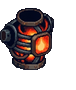
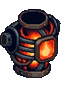
feat(m11): Krall — krall_torsos2 im Panzer-Maßstab (P0-14) und krall_arms_L4 (P0-16) eingebunden, Übergangs-Skalierung entfernt
Claude-Session: https://claude.ai/code/session_016nKYwp8z7nBJLYrrUAGEJb

diff --git a/src/dungeon/anim/rigs/krall.ts b/src/dungeon/anim/rigs/krall.ts
@@ -24,6 +24,11 @@ const KARM_BENT = 12;
 const KARM_STUMP = 15;
 /** Arm-Pose (0 hängend · 1 ausholend · 2 Stoß, Teleskop/Schnappen zählen als Stoß) → beschädigte Variante je Seite und HP-Anteil */
 function damagedArm(v: number, hp: number, right: boolean): number {
+  // P0-16 (`krall_arms_L4`, Variante 18–23): linker Haken verbogen in seitlich · Block · Stampfer · Sog · Halten · Teleskop voll (Stumpf-Varianten folgen mit P0-18)
+  if (!right && hp >= 0.2 && hp < 0.5) {
+    const L4: Record<number, number> = { [KARM.side]: 18, [KARM.block]: 19, [KARM.stomp]: 20, [KARM.sog]: 21, [KARM.hold]: 22, [KARM.telL]: 23 };
+    if (L4[v] !== undefined) return L4[v];
+  }
   const base = v === 0 || v === 1 || v === 2 ? v : v >= KARM.telS && v <= KARM.snap ? 2 : -1;
   if (base < 0) return v;
   if (hp < (right ? 0.35 : 0.2)) return KARM_STUMP + base; // Zange bricht zuerst ab
@@ -116,7 +121,7 @@ function krallSet(e: Enemy, time: number): KrallSet {
   let dmg = -1;
   if (p2) dmg = hpPct < 0.15 ? KT3.p2Crit : hpPct < 0.25 ? KT3.p2Heavy : hpPct < 0.35 ? KT3.p2Light : -1;
   else dmg = hpPct < 0.25 ? KT3.p1Heavy : hpPct < 0.65 ? KT3.p1Mid : hpPct < 0.8 ? KT3.p1Light : -1;
-  if (p2) torso = posture === 'duck' ? KT2.duck : posture === 'upright' ? KT2.upright : posture === 'fwd' ? KT2.fwd : posture === 'stomp' ? KT2.stomp : posture === 'side' ? KT2.side : posture === 'hot' ? KT2.hot : KTORSO.p2; // Rahmen in Ruhe = Skelett-Rumpf aus krall_torsos
+  if (p2) torso = posture === 'duck' ? KT2.duck : posture === 'upright' ? KT2.upright : posture === 'fwd' ? KT2.fwd : posture === 'stomp' ? KT2.stomp : posture === 'side' ? KT2.side : posture === 'hot' ? KT2.hot : KT2.duck; // Rahmen in Ruhe = neutrale Pose aus krall_torsos2 (Panzer-Maßstab)
   else torso = KTORSO[posture === 'stomp' || posture === 'side' ? 'fwd' : posture === 'hot' ? 'upright' : posture];
   if (dmg >= 0) {
     // Beschädigung ersetzt das Haltungsbild — die Haltung zeigt dann Verschiebung/Stauchung
@@ -167,10 +172,8 @@ export const anim: RigAnim = {
     const ks = krallSet(e, time);
     const kf = ks.fx;
     const legIn = isFrameTorso(ks.torso) ? 1 : 0;
-    const t2k = ks.torso >= KT2.duck && ks.torso <= KT2.hot ? 1.1 : 1;
     return {
-      // krall_torsos2 ist 76×90 statt 84×100 gezeichnet (Panzer-Rumpf) → Übergangslösung: ×1,1 um den Kern, bis P0-14 neu geliefert ist
-      torso: { variant: ks.torso, dx: kf.torso.dx, rot: kf.torso.rot, sx: (kf.torso.sx ?? 1) * t2k, dy: (kf.torso.dy ?? 0) - Math.abs(s) * walk * 1.2 + breathe * 0.4, sy: (kf.torso.sy ?? 1) * t2k },
+      torso: { variant: ks.torso, dx: kf.torso.dx, rot: kf.torso.rot, sx: kf.torso.sx, dy: (kf.torso.dy ?? 0) - Math.abs(s) * walk * 1.2 + breathe * 0.4, sy: kf.torso.sy },
       // Phase-2-Rahmen ist schmaler als der Panzer-Rumpf: Hüften nach innen, damit die Beine am Körper sitzen
       legFL: { variant: legPose(ks, walk, s), rot: s * amp * 0.25, dx: legIn * 6.5 },
       legBR: { variant: legPose(ks, walk, -s), rot: -s * amp * 0.2, dx: -legIn * 7 },

diff --git a/handoff/krall.md b/handoff/krall.md
@@ -5,7 +5,7 @@
 - **Krall (eingebunden):** Teile `clawR` (`krall_arms_R`) + `clawL` (`krall_arms_L`), je 6 Posen (0 hängend · 1 ausholen · 2 Stoß · 3 seitlich · 4 Block · 5 Stampfer), Rumpf-Set `torso_1…6` (normal · geduckt · aufgerichtet · gebeugt · Phase-2-Skelettrahmen · beschädigt, Pivot = Kern). `krallSet()` in `bossAnims.ts` wählt nach Zugname/`bossSub`/Phase (Tabelle: `BOSS_ANIMATION_PLAN.md` §3), mit Anlauf, Nachfedern, Gehen, Treffer. Maßstab: `torsoDisplayH` 30 → 36 (neuer Rumpf ist kleiner gezeichnet; Zangen wirken größer). Kinder des Rumpfs hängen mit `attach [0.5,0.5]` + `offset` relativ zum Kern. Links/Rechts der Arme per Alpha-Maske geprüft (nicht vertauscht). Panzer fällt in Phase 2 ab. **Feinschliff gegen „Puppen-Zappeln“:** Schrittphase aus zurückgelegter Strecke (stehend = Beine ruhig), Renderer wippt nur beim Laufen und nutzt `smoothBossBody`, trägere Glättung (`KRALL_TAU` 0,1 s), linker Arm folgt dem rechten mit 0,07 s Verzögerung (`VARIANT_LAG`), Zwischen-Posen der Zangen (`CLAW_BETWEEN`). **Beine/Effekte eingebunden:** 4 Beine nutzen `legR_1…6`/`legL_1…6` (`legPose()`: Schritt vor/zurück/anheben/Standbein/geduckt, Ducken bei Windup), Magnet wechselt `magnet_off`/`magnet_on` (nur beim Sog), Schrott-Wurf-Geschosse zeigen `scrap_a/b/c` (`Projectile.sprite='scrap'`); `spark` liegt als Extra-Bild bereit (noch ungenutzt). Import-Option `holes: true` je Set entfernt eingeschlossenes Weiß (Magnet-Öffnung). Fehlt nur Abnahme im echten Kampf. **Kern-Wächter Beschädigungsstufen (ohne neue Sprites, vorhandene Bilder verdrahtet):** P1 < 80 % Helm rissig · < 65 % Rumpf dampft · P2 < 35 % Arme zerfetzt · < 25 % Rumpf beschädigt · < 15 % Helm zerstört (Test `m11p2`). **Angriffs-Abstimmung:** Beinposen je Zug/Phase in `krallSet().leg`; **Angriffs-FX (Nachtest-Feedback):** `BossZone.fx` (`pull`/`blast`/`drop`/`dash`, `bossFx.ts renderFx`), Stoß-Arme schießen in Stoßrichtung, Platte hängt als Rückenschutz am Rumpf, P2-Hüften nach innen (Tabelle `BOSS_ANIMATION_PLAN.md` §3). **Neue Sprites gewünscht (PRIORITÄT P0, ganz oben):** Arme-Angriffsposen `krall_arms_R2/L2`, `krall_fx2`, Beschädigungsstufen `krall_torsos3` + `krall_arms_R3/L3` (P0-11/12), `krall_torsos2.png` (Phase-2-Rümpfe, wichtigste), `krall_legs_R2/L2.png` → `SPRITE_QUEUE.md` P0-06…P0-12.
 - **Eingebunden:** Beine (`legR/L_1…6`, Pose je Angriff), Magnet an/aus, Schrott-Geschosse, Arm-Angriffsposen (P0-06/07: Teleskop-Stoß, Zuschnappen, Sog, Schrott), Angriffs-Optik `BossZone.fx` (`pull`/`blast`/`drop`/`dash`), Platte als Rückenschutz, Phase-2-Hüften nach innen.
 - **Eingebunden (diese Sitzung, P0-08…12 alle verdrahtet):** `krall.json` um Sets `krall_torsos2` (`torso_7…12`), `krall_torsos3` (`torso_13…18`), `krall_legs_R2/L2` (`legR/L_7…12`), `krall_arms_R3/L3` (`clawR/L_13…18`), `krall_fx2` (`fx_wave/arc/crater/rust`, Ringe `fx_field/fx_dust` mit `holes`) erweitert und importiert. `krall.ts`: **Phase-2-Rahmen je Haltung** (`KT2`: geduckt · aufgerichtet · gebeugt · Stampfer gestaucht · Wurf-Drehung · überhitzt vor dem Hagel; Ruhe = alter Skelett-Rumpf Index 4) · **Rumpf-Beschädigung** (`KT3`: P1 <80/<65/<25 % · P2 <35/<25/<15 % kritisch; ersetzt das Haltungsbild, Haltung dann über `fx`) · **Arme** verbogen (R <65 %, L <50 %) und Stumpf (R <35 %, L <20 %) für hängend/ausholen/Stoß (Teleskop/Schnappen zählen als Stoß) · **Beine** (`KLEG2`): Ausfall, Bremsen, Stampfer-Landung, Magnet-Stemmen, Phase-2-Humpeln (<35 %), Ruhe-Zittern (Phase 2). `bossFx.ts`: `fx_field` (Magnet-Feldringe), `fx_arc` (Blitzbogen), `fx_wave` (Stoß-Luftwelle), `fx_dust` (Druckring), `fx_crater`+`fx_rust` (Schrott-Aufschlag). Test `m11p5_krall` erweitert; Kontaktbogen `rig-sheet.cjs krall` um 7 Schadensfälle ergänzt.
-- **Kleinigkeiten / offen:** Phase-2-Rahmen waren ~10 % kleiner gezeichnet → Übergang: Skalierung ×1,1 (`t2k` in `krall.ts`); echte Lösung **P0-14** (`krall_torsos2` neu im Panzer-Maßstab). Arme in Block/Sog/Hagel/Stampfer/Teleskop haben noch keine beschädigte Variante → **P0-15…18** in `SPRITE_QUEUE.md` (neue Sprites benötigt!). Beschädigte Beine nur als Humpeln.
+- **P0-14 ✅ eingebunden:** `krall_torsos2` im Panzer-Maßstab (84×100) re-importiert, Übergangs-Skalierung `t2k` entfernt. **P0-16 ✅ eingebunden:** `krall_arms_L4` → `clawL_19…24` (verbogener Haken: seitlich · Block · Stampfer · Sog · Halten · Teleskop voll, 50–20 % HP; `damagedArm()` in `krall.ts`). **Noch offen (neue Sprites benötigt):** `P0-15` (R4), `P0-17` (R5), `P0-18` (L5) in `SPRITE_QUEUE.md` — bis dahin rechte Zange und Stümpfe in diesen Posen intakt. Beschädigte Beine nur als Humpeln.
 - Abnahme im echten Kampf offen.
 
 ## Art-Sheets (`art_source/rigs/`)
